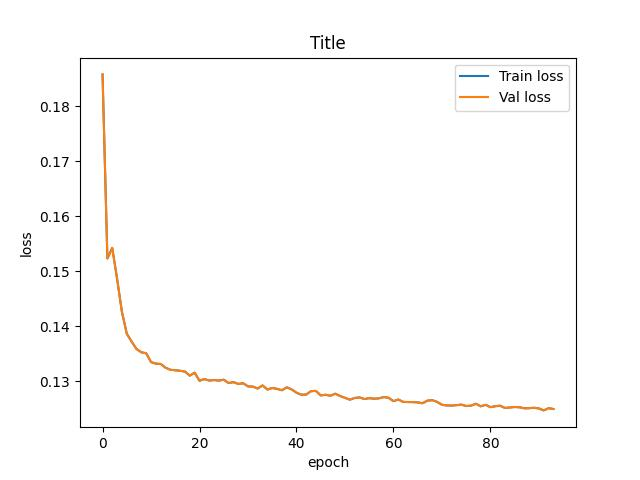
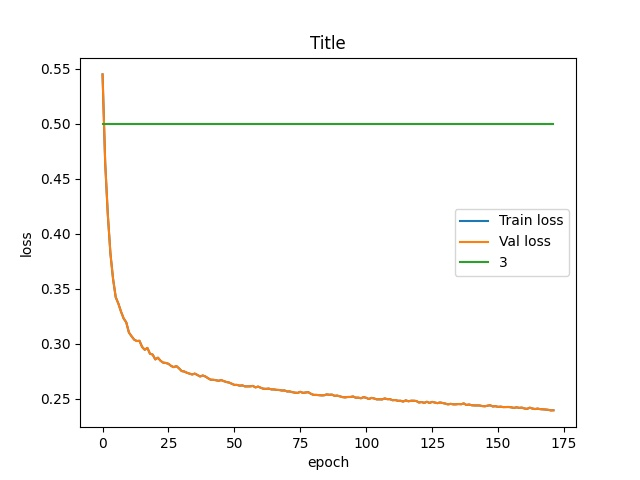
loss

diff --git a/main.py b/main.py
@@ -36,17 +36,17 @@ def set_env(seed):
     torch.use_deterministic_algorithms(True)
 
 ckp = "./checkpoints/stgcn-metr-la-15/0.1337_metr-la.pth"
-ckp_save = "./checkpoints/stg-tf-pemsd7-15"
+ckp_save = "./checkpoints/loss_record"
 if_train = True
-if_load = True
+if_load = False
 def get_parameters():
     parser = argparse.ArgumentParser(description='STGCN')
     parser.add_argument('--enable_cuda', type=bool, default=True, help='enable CUDA, default as True')
     parser.add_argument('--seed', type=int, default=42, help='set the random seed for stabilizing experiment results')
     parser.add_argument('--dataset', type=str, default='metr-la', choices=['metr-la', 'pems-bay', 'pemsd7-m'])
     parser.add_argument('--n_his', type=int, default=12)
-    parser.add_argument('--tf_rate', type=int, default=5)
-    parser.add_argument('--n_pred', type=int, default=15, help='the number of time interval for predcition, default as 3')
+    parser.add_argument('--tf_rate', type=int, default=100)
+    parser.add_argument('--n_pred', type=int, default=1, help='the number of time interval for predcition, default as 3')
     parser.add_argument('--time_intvl', type=int, default=5)
     parser.add_argument('--Kt', type=int, default=3)
     parser.add_argument('--stblock_num', type=int, default=2)
@@ -214,14 +214,15 @@ def train(loss, args, optimizer, scheduler, es, model, train_iter, val_iter, sav
             checkpoint_name = str(round(val_loss.item(),4)) + "_" + args.dataset + ".pth"
             lost_least = val_loss
             save_path = os.path.join(save_dir, checkpoint_name)
-            torch.save(model.state_dict(), save_path)
+            # torch.save(model.state_dict(), save_path)
         
         if es.step(val_loss):
             np.save(os.path.join(save_dir, "train_loss.npy"), np.array(train_loss_list))
-            np.save(os.path.join(save_dir, "val_loss.npy"), np.array(train_loss_list))
+            np.save(os.path.join(save_dir, "val_loss.npy"), np.array(val_loss_list))
             print('Early stopping.')
             break
-
+    np.save(os.path.join(save_dir, "train_loss.npy"), np.array(train_loss_list))
+    np.save(os.path.join(save_dir, "val_loss.npy"), np.array(val_loss_list))
 
 @torch.no_grad()
 def val(model, val_iter):

diff --git a/script/loss_vis.py b/script/loss_vis.py
@@ -22,8 +22,9 @@ def plot_loss_curves(loss_curves, labels):
     ax.set_ylabel('loss')
 
     # 绘制每个损失函数的曲线
-    for i, loss_curve in enumerate(loss_curves):
-        ax.plot(x, loss_curve, label=labels[i])
+    for loss_curve, label in zip(loss_curves, labels):
+        ax.plot(x, loss_curve, label=label)
+
 
     # 添加图例
     ax.legend()
@@ -37,11 +38,12 @@ if __name__ == "__main__":
     import numpy as np
 
     # 假设有两个损失函数下降曲线
-    loss_curve1 = np.load("./checkpoints/gpstg-metr-la-15/train_loss0.npy")
-    loss_curve2 = np.load("./checkpoints/gpstg-metr-la-15/val_loss0.npy")
-
+    loss_curve1 = np.load("./checkpoints/gpstg-pems-bay-15/train_loss.npy")
+    loss_curve2 = np.load("./checkpoints/gpstg-pems-bay-15/val_loss.npy")
+    loss_curve3 = [0.5 for i in range(172)]
+    print(loss_curve1[:10], loss_curve2[:10])
     # 损失函数的标签
-    labels = ['Train loss', 'Val loss']
+    labels = ['Train loss', 'Val loss', '3']
 
     # 调用函数进行绘图
-    plot_loss_curves([loss_curve1, loss_curve2], labels)
+    plot_loss_curves([loss_curve1, loss_curve2, loss_curve3], labels)
